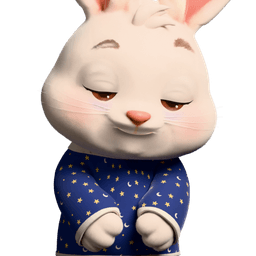
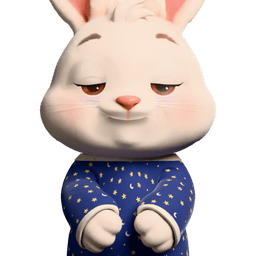
Rabi'yi Giydir: Gece Kuşu kameraya düz bakıyor
- Baş ve gövde öne eğik değil, tam karşıdan; uykulu hâl yüzde: yarı kapalı
  kapak, yorgun kaşlar, gevşek gülümseme. İkon kadrajı yeni başa göre.

diff --git a/docs/kurallar/maskot-ve-ikon.md b/docs/kurallar/maskot-ve-ikon.md
@@ -169,8 +169,9 @@ Rabi proje kurallarının bir parçası — dizin ve genel kurallar: [AGENTS.md]
     yen de büzülüp cep ağzında yıldız kırışık yapıyordu); manşet ribanası yok, hoodie dokusu
     kumaşın kendi konumundan okunur. Ayakkabılar gövdeyle aynı yükseklikte, tabanlar zemine
     paralel, iki ayak simetrik 5° dışa (`sokak_poz.py`). Sıkıştırma `sokak_sikistir.mjs`.
-  - Gece Kuşu (`gecekusu`): **fincan yok** (kullanıcı kaldırttı, 2026-11-03), patiler karnın
-    önünde birleşik; pijama düğmeleri gizli (fincansız kumaşa gömük nokta gibi duruyordu).
+  - Gece Kuşu (`gecekusu`): **baş ve gövde dümdüz, kameraya tam karşıdan** (kullanıcı istedi,
+    2026-11-03; başı öne eğme); uykululuk yalnız yüzde (yarı kapalı kapak, yorgun kaş, gevşek
+    gülümseme). **Fincan yok** (kullanıcı kaldırttı, 2026-11-03), patiler karnın önünde birleşik; pijama düğmeleri gizli (fincansız kumaşa gömük nokta gibi duruyordu).
     Kulak iç pembesinde önden görünen yüzde `on_w` 1, sheen kısık (aksi hâlde kenarda beyaz
     çizgi). Göz `gecekusu_doku.py`de çevre tenle silinip yeniden çizilir; göz/kaş örgüsü
     `gk_goz_duz` şekil anahtarıyla düzlenir (örgüdeki eski göz hattı gri yay bırakıyordu).
